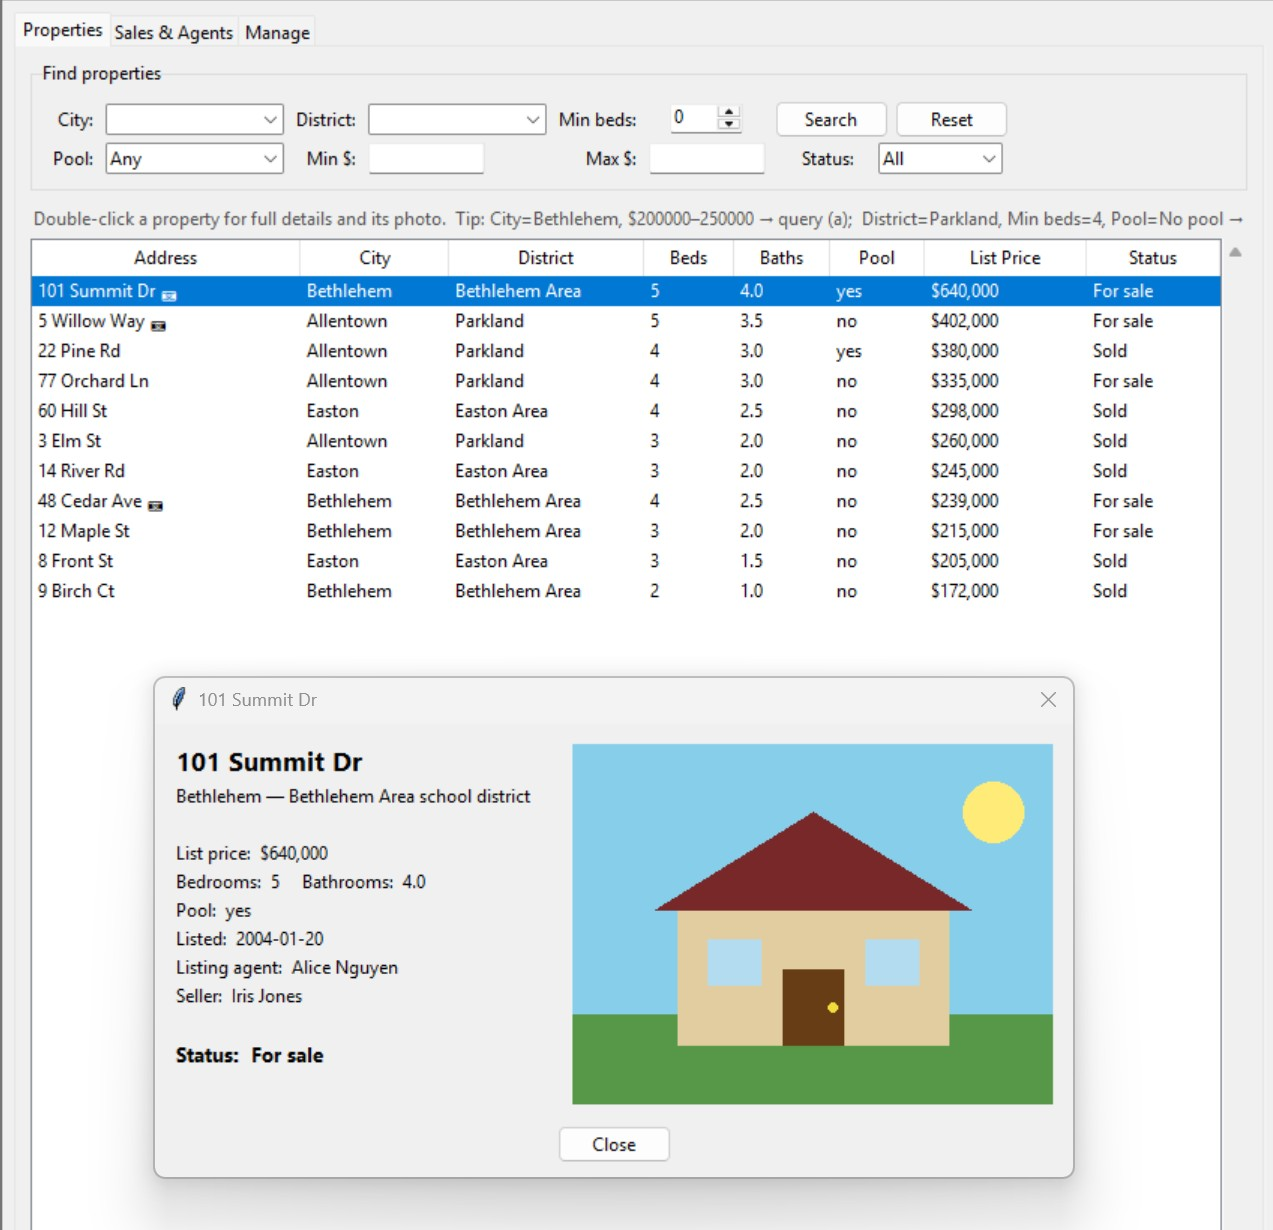
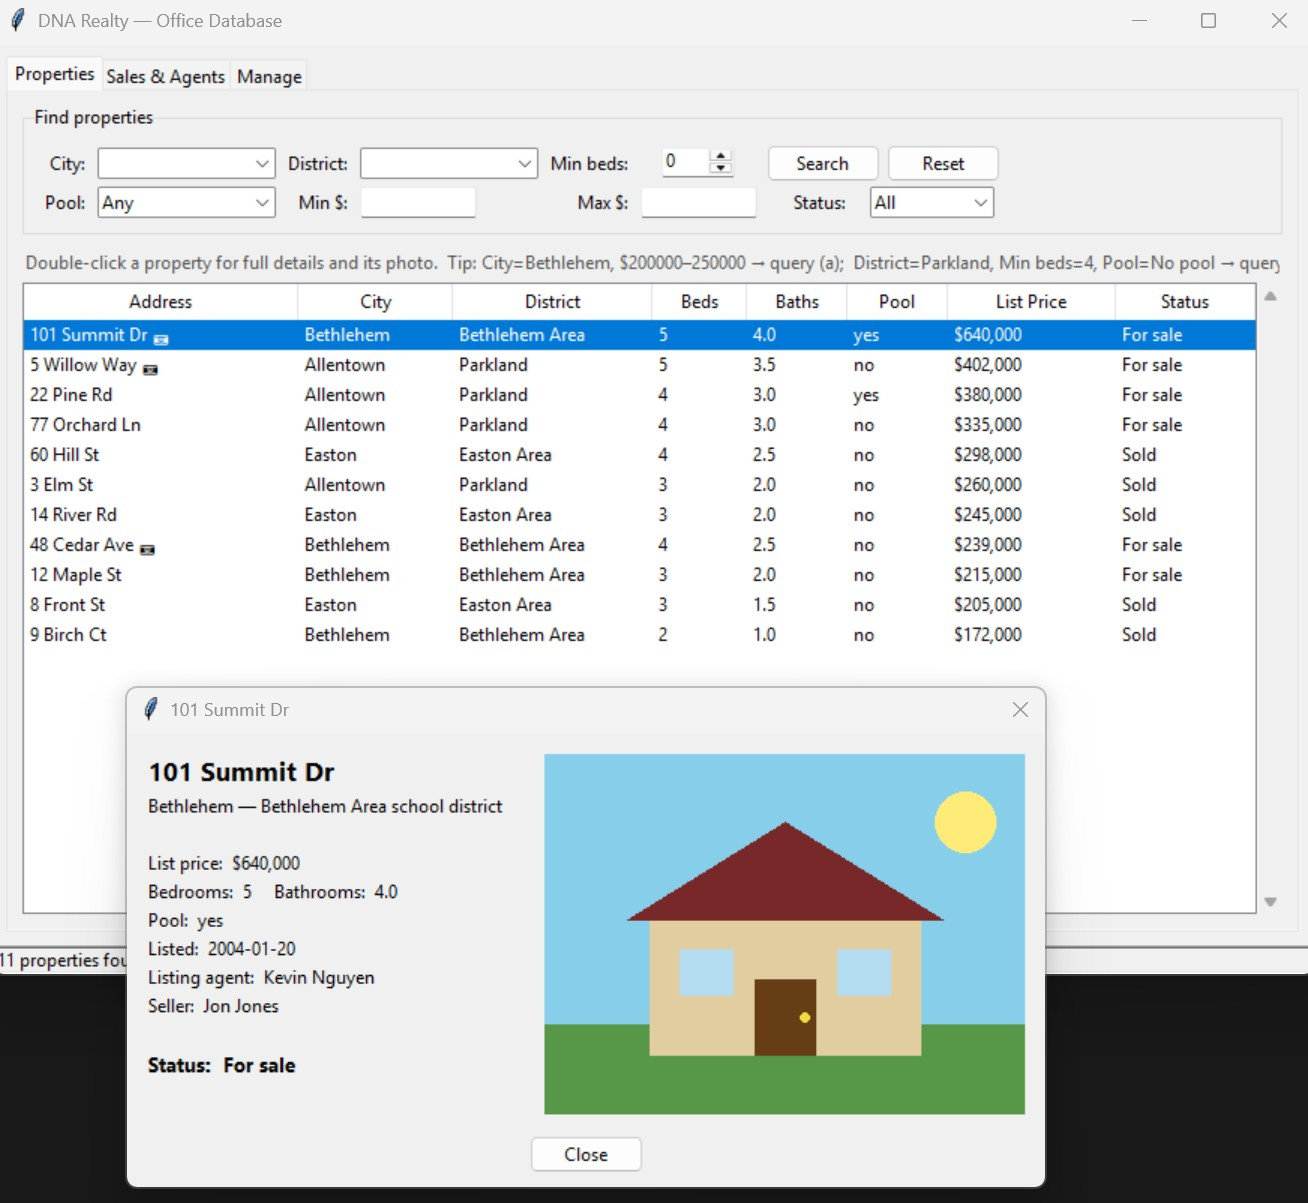
revised seed and db files with new screenshots

diff --git a/seed.py b/seed.py
@@ -40,11 +40,11 @@ def seed():
 
     # -- agents -------------------------------------------------------------
     agents = [
-        ("Alice Nguyen",  "610-555-0101", "alice@valleyrealty.com"),
-        ("Bob Carter",    "610-555-0102", "bob@valleyrealty.com"),
-        ("Carol Diaz",    "610-555-0103", "carol@valleyrealty.com"),
-        ("Dave Ellis",    "610-555-0104", "dave@valleyrealty.com"),
-        ("Erin Foster",   "610-555-0105", "erin@valleyrealty.com"),
+        ("Kevin Nguyen",  "610-555-0101", "kevin@dnarealty.com"),
+        ("Bob Saget",    "610-555-0102", "bob@dnarealty.com"),
+        ("Phil Dunphy",    "610-555-0103", "carol@dnarealty.com"),
+        ("Rick Sanchez",    "610-555-0104", "dave@dnarealty.com"),
+        ("Gill Thorpe",   "610-555-0105", "erin@dnarealty.com"),
     ]
     conn.executemany(
         "INSERT INTO agents (name, phone, email) VALUES (?,?,?)", agents
@@ -52,22 +52,22 @@ def seed():
 
     # -- sellers ------------------------------------------------------------
     sellers = [
-        ("Frank Green",   "610-555-0201"),
-        ("Grace Hill",    "610-555-0202"),
-        ("Henry Irwin",   "610-555-0203"),
-        ("Iris Jones",    "610-555-0204"),
-        ("Jack Klein",    "610-555-0205"),
-        ("Karen Lopez",   "610-555-0206"),
+        ("Frank Gallagher",   "610-555-0201"),
+        ("Walter White",    "610-555-0202"),
+        ("Jesse Pinkman",   "610-555-0203"),
+        ("Jon Jones",    "610-555-0204"),
+        ("Calvin Klein",    "610-555-0205"),
+        ("Karen Black",   "610-555-0206"),
     ]
     conn.executemany("INSERT INTO sellers (name, phone) VALUES (?,?)", sellers)
 
     # -- buyers -------------------------------------------------------------
     buyers = [
-        ("Laura Mills",   "610-555-0301"),
-        ("Mike Novak",    "610-555-0302"),
-        ("Nina Ortiz",    "610-555-0303"),
-        ("Oscar Perez",   "610-555-0304"),
-        ("Paula Quinn",   "610-555-0305"),
+        ("Harry Potter",   "610-555-0301"),
+        ("Miles Morales",    "610-555-0302"),
+        ("Nina Dobrev",    "610-555-0303"),
+        ("Jeff Goldblum",   "610-555-0304"),
+        ("Peter Parker",   "610-555-0305"),
     ]
     conn.executemany("INSERT INTO buyers (name, phone) VALUES (?,?)", buyers)
 

diff --git a/app.py b/app.py
@@ -70,7 +70,7 @@ class RealEstateApp(tk.Tk):
 
     def __init__(self):
         super().__init__()
-        self.title("Lehigh Valley Realty — Office Database")
+        self.title("DNA Realty — Office Database")
         self.geometry("880x620")
         self.minsize(760, 540)
 
